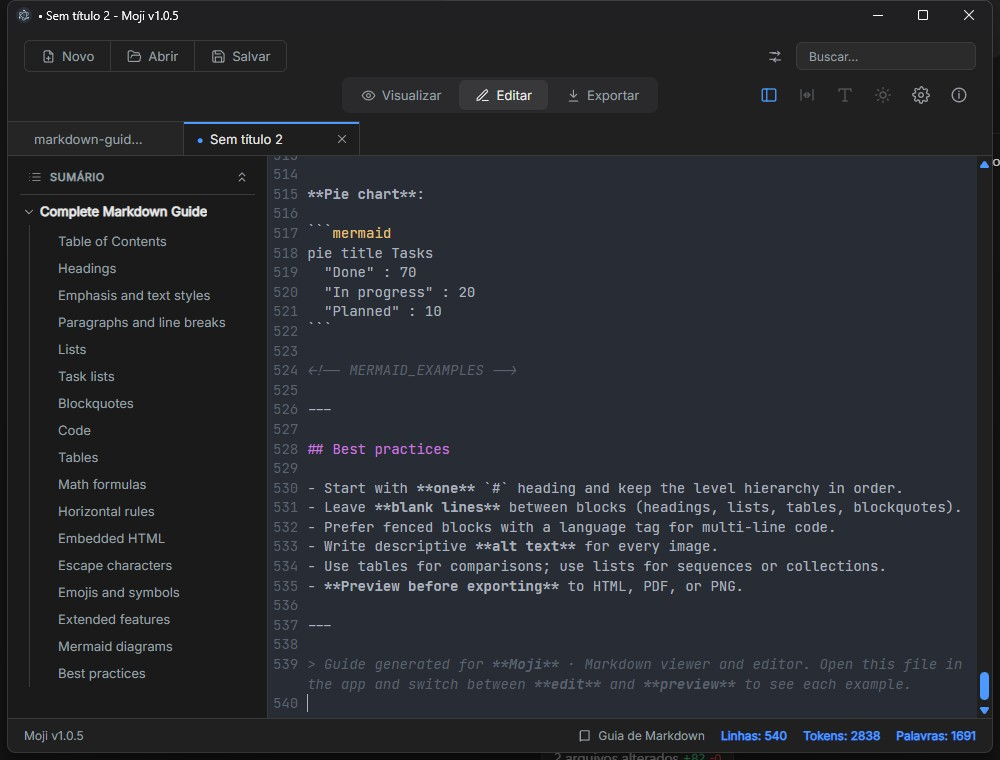
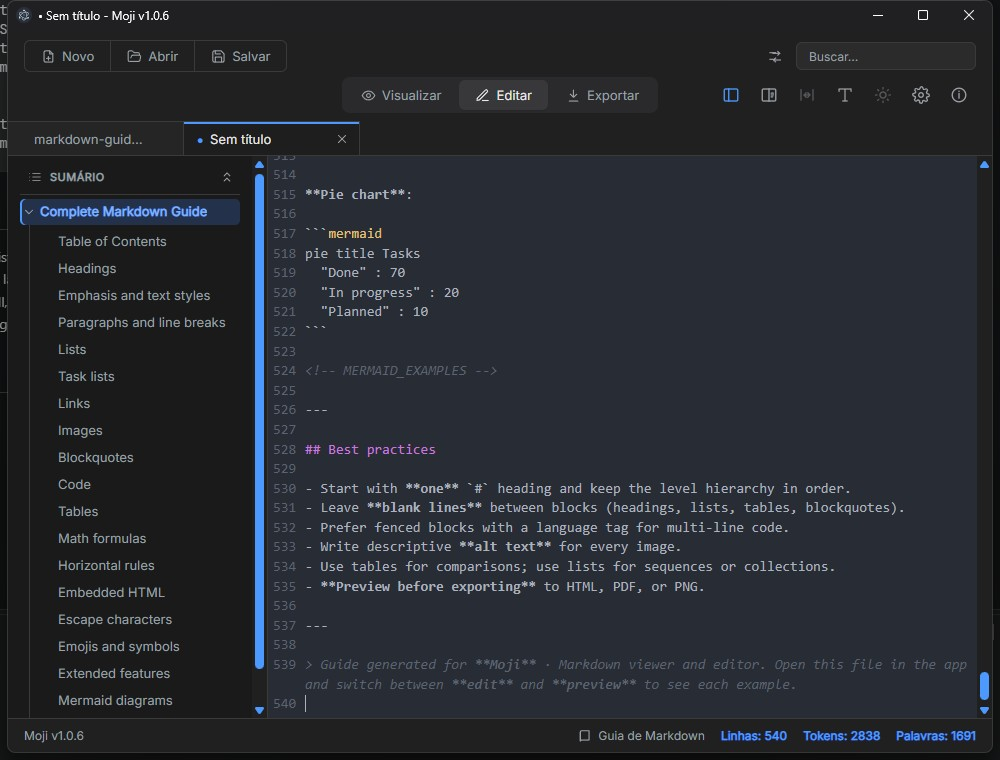
docs: update changelog, README and screenshot capture for v1.0.6

diff --git a/CHANGELOG.md b/CHANGELOG.md
@@ -4,23 +4,48 @@ All notable changes to this project will be documented in this file.
 
 Format based on [Keep a Changelog](https://keepachangelog.com/en/1.1.0/).
 
-## [Unreleased]
-
 ## [1.0.6] - 2026-08-19
 
 ### Added
 
 - Font size can now be adjusted in Editor mode, from the same top-bar control and the Ctrl+Plus / Ctrl+Minus / Ctrl+0 shortcuts already available in view mode. Editor and preview keep separate sizes (12px-24px), the editor resetting to 14px and the preview to 16px.
 - Settings now has a dedicated Editor tab to set the editor's default font size, alongside the existing Preview tab for the preview's font size.
+- Split view that renders the live preview beside the CodeMirror editor, toggled from the top bar or with Ctrl+\. A draggable divider sets the pane ratio (20%–80%), and both the toggle and the ratio persist in settings. The toggle is disabled below a 700px-wide workspace and explains why in its tooltip. In view mode the toggle switches straight to edit mode in the same action, and a view-only split mode keeps the editor mounted while showing only the preview pane.
+- Ctrl+G and Ctrl+Shift+G jump to the next and previous search match; Ctrl+M leaves editor focus.
+- Ctrl+Q now goes through a real `requestQuit` IPC path, so the shortcut behaves like the native Quit menu and still runs the unsaved-changes guard (previously it only closed the window and did not quit on macOS).
 
 ### Changed
 
 - Preview and editor font sizes now persist across launches instead of resetting every session. The full-width reading toggle stays session-only.
+- Scrolling the source editor now moves the preview to the matching part of the document, and scrolling the preview moves the editor in turn; only one pane owns the sync while it is being scrolled, so the two cannot bounce off each other.
+- Shortcut handling is more robust: AltGr keyboard layouts (such as pt-BR ABNT2) no longer drop Ctrl+\ and similar primary chords, Escape now prevents default when closing a panel, and the macOS Window menu drops Miniaturize (Cmd+M) so the editor's exit-focus binding (Mod+M) works as advertised.
+- A `.tmp` file left over by a failed `settings.json` atomic write is now cleaned up instead of lingering.
 
 ### Fixed
 
 - PDF export no longer passes `marginType`, dropped from Electron's `printToPDF` API; margins keep the same 1cm default.
 - `npm install` downloads the Electron binary again. Electron removed its own `postinstall` hook in 42.0.0, so a fresh install left `node_modules/electron` without a `dist/` and `npm run dev` died with `Error: Electron uninstall`.
+- Switching the reading theme no longer drops the preview's imperative patches. The preview body is keyed by the theme, so changing it used to remount from pristine HTML and discard local image sources, copy buttons, search marks, and scroll-sync state; effects now track the mounted body instead of a patch counter.
+- The reading position stays anchored on the visible heading across the theme remount, so toggling light/dark no longer drifts the preview scroll.
+- Unsaved work can no longer be lost. Close/quit is only forced through Chromium's own `unresponsive` hang detector instead of a fixed 5-second timer that could close while the confirm dialog was still open, and it only forces through a close/quit already in flight.
+- A crashed renderer reloads the window with a warning dialog instead of silently discarding unsaved edits; launch-failed and integrity-failure events quit with an error instead of reload-looping.
+- A draft journal now records the base snapshot's SHA-256, so a crash between the snapshot rename and its journal cleanup is detected as stale on load (the old length-only check could collide on an equal-length edit) and is no longer replayed and duplicated.
+- An untouched new or restored document is no longer born "dirty", eliminating a spurious close-confirmation and an empty draft written to disk before any typing. Restored untitled documents resume their sequential numbering, tombstoned draft ids can't be resurrected by a late autosave, and empty draft-queue entries are dropped.
+- The close guard, `render-process-gone`, and runtime errors no longer restart or force-quit when nothing is being closed, and a hung or gone renderer that never answers `requestClose` is still forced through.
+- Opening on startup is hardened: OS-opened documents are held until the renderer confirms its listener is mounted (instead of being dropped during window boot), every markdown path from `argv`/second-instance is collected (not just the first), and opening many files streams only metadata while the renderer pulls content through the same chunked read used by a single open.
+- `cancelOpenMany` now actually stops the renderer's queue drain instead of only aborting main's scan, overlapping batches no longer lose documents, and open-many failures are collected once rather than duplicated through progress events.
+- A failed document lookup now keeps the reason it failed, so the app can tell a missing file from a transient error; recently opened files that failed transiently are kept, and only genuinely missing ones are forgotten.
+- Export and save dialogs attach as sheets to the owning window instead of floating free, window bounds that fall outside every connected display are discarded on restore, and granted file paths compare case-insensitively on Windows.
+- PNG/PDF/HTML export is hardened: a PNG capture rejects a slice whose width changes mid-capture instead of producing a broken image, PNG height is measured only after the content area settles, a leftover PNG `.tmp` is cleaned up when the final rename fails, export ships without a misleading numeric suffix when the preview is virtualized, and drawing a local `moji-asset://` image into the export canvas no longer taints it (CORS).
+- Writing to disk and storage is more robust: `settings.json` is written atomically (temp file + rename), and common filesystem errors map to friendly, localized messages instead of raw Node errors with full paths in toasts.
+- Draught data is safer: a stale journal can't resurrect a removed draft, pending deflate writes fail instead of hanging when the write pump dies, and storage of draft/order maps no longer leaks removed or empty entries.
+- The Mermaid diagram viewer is fixed: zoom uses a non-passive wheel listener so `preventDefault` actually blocks page scroll, SVG ids are namespaced so canvas and minimap copies don't collide on markers/gradients, custom modal bounds are reclamped on window resize, and the copy action no longer leaves an unhandled clipboard rejection.
+- The preview virtualization now binary-searches the active block instead of scanning from the start on every scroll, and the split-scroll mapping reaches the last source line when the preview is scrolled to the bottom with a trailing heading or an end-of-document hit.
+- Parsing and editor state are pruned: CodeMirror state for documents that are no longer open is discarded and heading-reveal requests are clamped to the document's line count, keeping large sessions responsive.
+- Updater reliability: an update check races its network call against a timeout instead of hanging forever, retries can't start a second concurrent check, and `autoDownload` is disabled.
+- The bundled guide and locales are tidied: guides only ever grant read access to their own asset directory, the window title matches the app version, and the missing Settings > Shortcuts tab text is restored in Spanish, Japanese, Chinese, and Russian.
+
+## [1.0.5] - 2026-08-05
 
 ## [1.0.5] - 2026-08-05
 

diff --git a/README.md b/README.md
@@ -11,7 +11,7 @@
 <p align="center"><strong>Current version:</strong> v1.0.6</p>
 
 <p align="center">
-  <img src="docs/repository-open-graph.png" alt="reposytory-open-graph" width="100%" />
+  <img src="docs/repository-open-graph.png" alt="repository-open-graph" width="100%" />
 </p>
 
 <p align="center">
@@ -48,16 +48,16 @@
 - **Export progress**: HTML, PDF, and PNG exports report their current phase and can be cancelled; a cancelled or failed export never leaves a partial file behind.
 - **Diagram exports**: rendered Mermaid diagrams are embedded as self-contained SVG in HTML, PDF, and PNG exports.
 - **Local images**: images referenced relative to the document are served through an authorized `moji-asset://` protocol, restricted to directories of documents you actually opened, loaded lazily and cached in memory.
-- **Settings view**: centered in-workspace panel for language, untitled-document recovery, preview typography, reading width, and a localized shortcut reference.
+- **Settings view**: centered in-workspace panel for language, untitled-document recovery, preview typography, editor and preview font sizes, reading width, and a localized shortcut reference.
 - **About view**: in-workspace panel showing app name, version (from `package.json`), author, repository link, and the story behind the name.
 - **Markdown guide**: bundled localized reference documents (`samples/markdown-guide.<locale>.md`) opened from the status bar.
 - **Recent files**: Welcome screen shows recently opened Markdown files and lets you reopen or remove entries.
-- **Remembered app state**: window size/position, recent files, last used folder, language, preview typography, reading width, Markdown preview theme, live preview split and pane ratio, and untitled-document recovery preference are persisted in user settings.
+- **Remembered app state**: window size/position, recent files, last used folder, language, preview typography, editor and preview font sizes, reading width, Markdown preview theme, live preview split and pane ratio, and untitled-document recovery preference are persisted in user settings.
 - **Update checks**: installed Windows NSIS and Linux AppImage builds check GitHub Releases and link to the release page when a newer version is available, so you can choose the correct artifact.
 - **Markdown themes**: dark/light toggle for rendered Markdown. App chrome remains dark; exports always use the light theme.
 - **Internationalization**: English, Portuguese (Brazil), Spanish, Japanese, Chinese, and Russian. Initial language follows the OS when possible and user choice is persisted.
 - **Security**: sandboxed renderer, context isolation, `nodeIntegration: false`, DOMPurify sanitization, and external links opened in the OS browser.
-- **Keyboard shortcuts**: common file, search, replace, tab, preview, export, fullscreen, and font-size actions; Settings lists every available shortcut.
+- **Keyboard shortcuts**: common file, search (Ctrl+G / Ctrl+Shift+G for next and previous match), replace, tab, preview, split view, export, fullscreen, and font-size (Ctrl+Plus / Ctrl+Minus / Ctrl+0, in Editor mode too) actions, plus Ctrl+M to leave editor focus and Ctrl+Q to quit through the unsaved-changes guard; Settings lists every available shortcut.
 
 ## Screenshots
 
@@ -74,6 +74,10 @@
 <p align="center">
   <img src="docs/scr-mermaid.jpg" alt="Mermaid diagrams" width="45%" />
   <img src="docs/scr-mermaid-dialog.jpg" alt="Mermaid diagram viewer" width="45%" />
+</p>
+
+<p align="center">
+  <img src="docs/scr-split.jpg" alt="Split view" width="45%" />
 </p>
 
 
